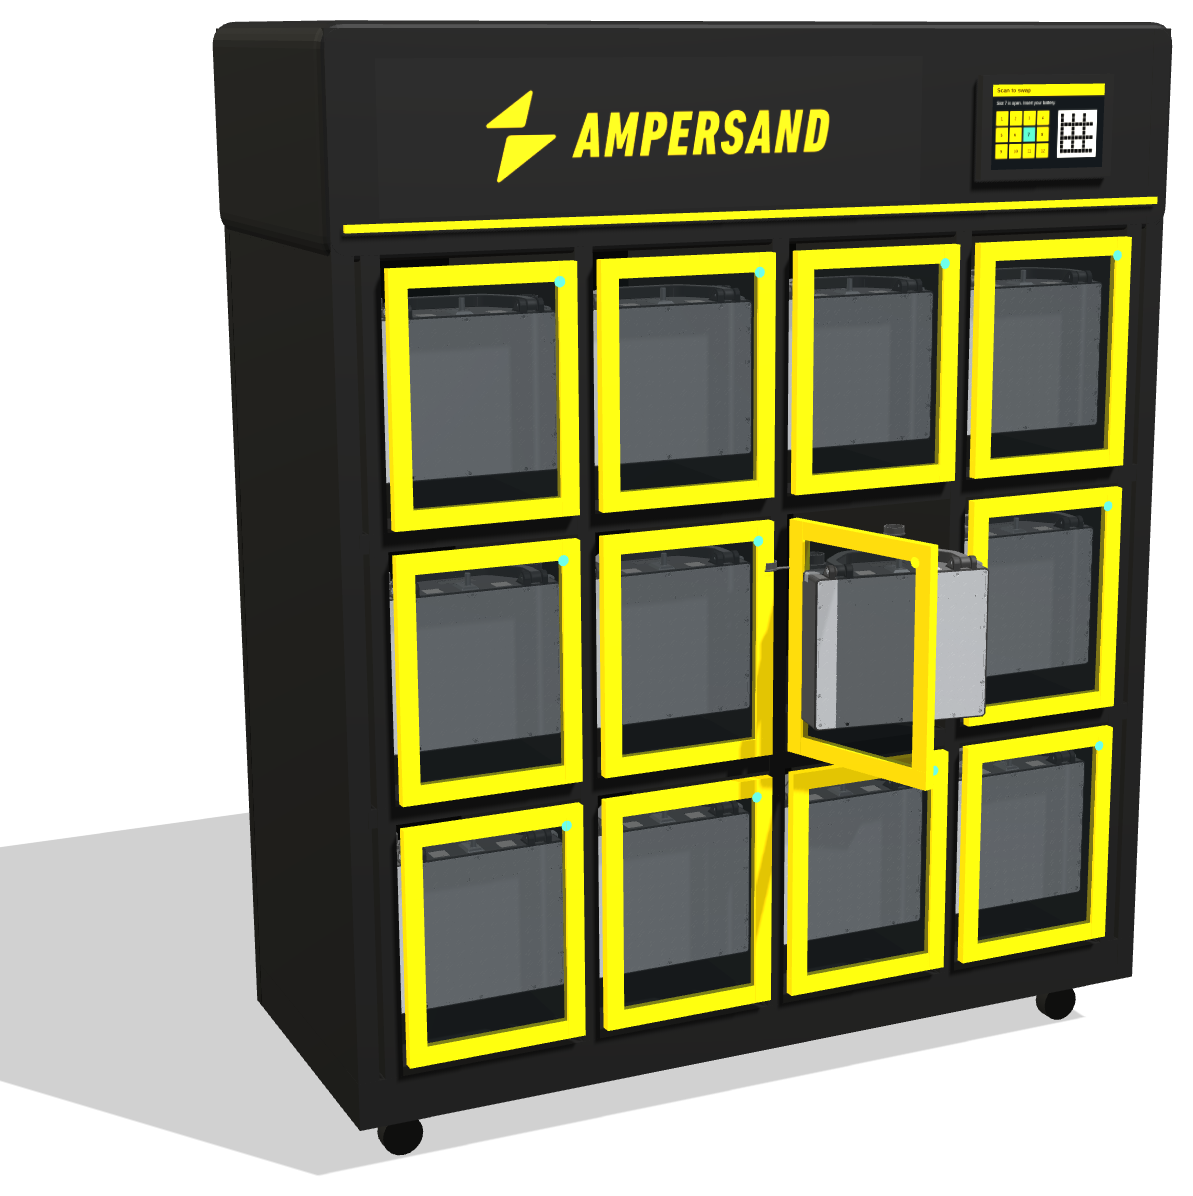
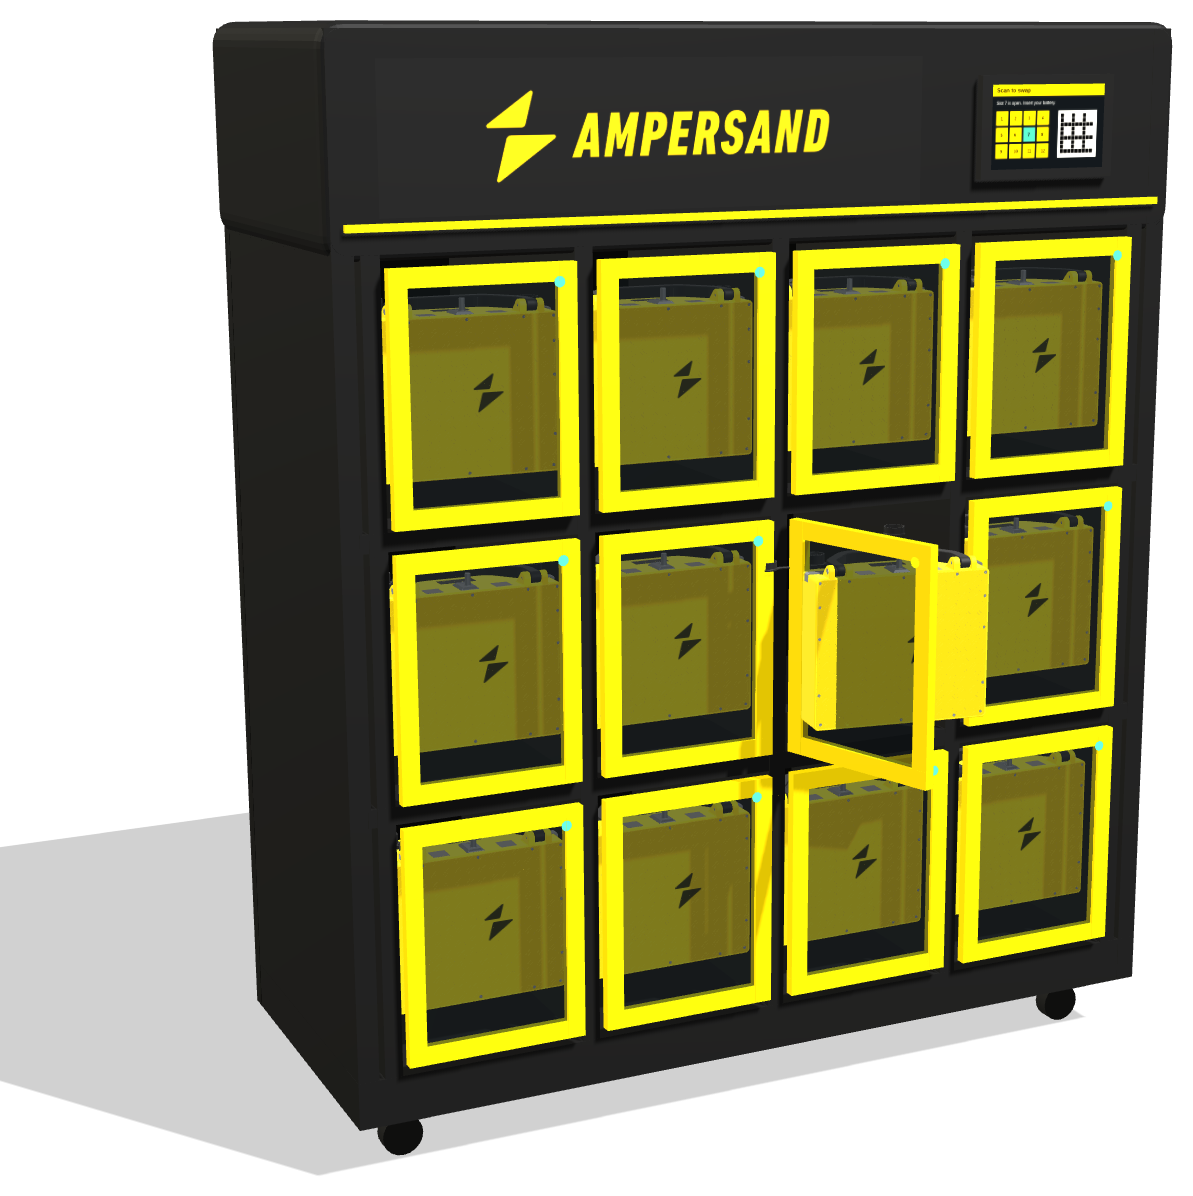
Match the MK2 to the portfolio slide and use the real HM1 render
- MK2 finish from the Hardware Product Portfolio slide: yellow body and
  checker plate, black handle and connector, Ampersand mark on both panels.
  The CAD only has default colours.
- Batteries page: HM1.9 engineering render from Drive in place of the photo crop.
- Hand-built 3D HM1 reshaped from that render (lid, cap, handle, latch,
  connector plate, flap, feet; no logo).
- Chalk blades behind the yellow MK2 for contrast. Weaker reflections on
  painted parts. New transparent renders.

Claude-Session: https://claude.ai/code/session_011MGWp8ueEGbp3fGTaK5ujy

Changed region(s): [[0.3101, 0.4331, 0.9304, 0.8662], [0.4962, 0.2166, 0.9304, 0.4022], [0.3101, 0.2475, 0.4652, 0.4022]]

diff --git a/proof/assets/models3d.js b/proof/assets/models3d.js
@@ -3,12 +3,13 @@
    loaded from assets/models/mk2.gltf.json (glTF with embedded data, so any static host serves it). Made with tools/step_to_web.py and gltfpack. If the file cannot
    load, a simple hand-built pack is used instead.
    Hand-built, to scale from the specifications:
-   HM1 pack 350 × 363 × 287 mm (Hardware product portfolio, Aug 2026)
+   HM1 pack 350 × 363 × 287 mm (Hardware product portfolio, Aug 2026), shaped from the HM1.9 render
    12-slot cabinet 1500 × 600 × 1825 mm, 3 × 4 slots, 10.1" screen (Swap station specifications)
    Needs three.js r128 (global THREE). Usage: ampModel(element, 'mk2' | 'compare' | 'cabinet'). */
 (function () {
   'use strict';
   // Our approved logo files (assets/brand), embedded so the canvas texture never taints.
[2 lines of base64/hex data omitted]
   var C = { surge: 0xFCDC04, black: 0x141414, ink: 0x0A0A0A, grey: 0x5C5C5E, alloy: 0x9E9E9E, green: 0x44BC9D, glass: 0x10161A };
 
@@ -50,13 +51,13 @@
   // ---- Fallback MK2 pack (used only if the model file cannot load): 322 wide, 291 tall, 128 deep (mm → m) ----
   function mk2Pack(logoTex) {
     var g = new THREE.Group(), W = 0.322, H = 0.291, D = 0.128;
-    mesh(roundedBox(W, H, D, 0.018), mat(0x111111, 0.55, 0.1), g, 0, H / 2, 0); // black enclosure, as in the CAD
+    mesh(roundedBox(W, H, D, 0.018), mat(C.surge, 0.45, 0.05), g, 0, H / 2, 0); // yellow enclosure, as on the portfolio slide
     // black end caps with ribs
     var cap = mat(C.black, 0.55, 0.1);
     mesh(roundedBox(W + 0.004, 0.034, D + 0.004, 0.012), cap, g, 0, H - 0.017, 0);
     mesh(roundedBox(W + 0.004, 0.03, D + 0.004, 0.012), cap, g, 0, 0.015, 0);
-    // aluminium checker-plate side panels on both faces
-    var alu = mat(0xC8CBCF, 0.4, 0.6);
+    // yellow checker-plate side panels on both faces
+    var alu = mat(0xF2D104, 0.42, 0.3);
     mesh(new THREE.BoxGeometry(W * 0.96, H * 0.88, 0.003), alu, g, 0, H * 0.47, D / 2 + 0.0015);
     mesh(new THREE.BoxGeometry(W * 0.96, H * 0.88, 0.003), alu, g, 0, H * 0.47, -D / 2 - 0.0015);
     // carry handle on top
@@ -68,15 +69,39 @@
     return g;
   }
   // ---- HM1 pack: 350 wide, 363 tall, 287 deep ----
-  function hm1Pack(logoTex) {
+  function hm1Pack() {
+    // Shape from the HM1.9 render (0004-03 Battery Welded): welded yellow box, lid seam near the top,
+    // black round cap, chrome handle and latch on the side, connector plate, small front flap, feet. No logo.
     var g = new THREE.Group(), W = 0.35, H = 0.363, D = 0.287;
-    mesh(roundedBox(W, H * 0.9, D, 0.014), mat(C.surge, 0.5, 0.05), g, 0, H * 0.45, 0);
-    mesh(roundedBox(W * 0.96, H * 0.1, D * 0.96, 0.02), mat(C.black, 0.6), g, 0, H * 0.95, 0);
-    mesh(new THREE.CylinderGeometry(0.032, 0.032, 0.02, 32), mat(0x2a2a2a, 0.5), g, -0.08, H + 0.005, 0.04);
-    var hb = mat(0xD8D8D8, 0.3, 0.9);
-    mesh(new THREE.BoxGeometry(0.012, 0.012, 0.11), hb, g, W / 2 + 0.012, H * 0.7, 0);
-    var plate = new THREE.Mesh(new THREE.PlaneGeometry(0.22, 0.055), new THREE.MeshStandardMaterial({ map: logoTex, roughness: 0.5, transparent: true }));
-    plate.position.set(0, H * 0.62, D / 2 + 0.003); g.add(plate);
+    var yellow = mat(C.surge, 0.5, 0.05), dark = mat(0x111111, 0.6, 0.05), chrome = mat(0xD8D8D8, 0.25, 0.95);
+    mesh(roundedBox(W, H * 0.93, D, 0.006), yellow, g, 0, H * 0.465, 0);
+    mesh(roundedBox(W + 0.004, H * 0.065, D + 0.004, 0.006), mat(0xF2D104, 0.5, 0.05), g, 0, H * 0.965, 0); // lid
+    var cap = mesh(new THREE.CylinderGeometry(0.04, 0.042, 0.032, 40), dark, g, 0.07, H + 0.016, 0.02);
+    for (var r = 0; r < 12; r++) { // ribs on the cap
+      var rb = mesh(new THREE.BoxGeometry(0.006, 0.026, 0.006), dark, g, 0.07 + Math.cos(r / 12 * 6.283) * 0.042, H + 0.016, 0.02 + Math.sin(r / 12 * 6.283) * 0.042);
+      rb.rotation.y = -r / 12 * 6.283;
+    }
+    // side (+x): chrome U-handle near the top, toggle latch near the bottom, connector plate and port
+    var hx = W / 2 + 0.013;
+    mesh(new THREE.BoxGeometry(0.01, 0.012, 0.12), chrome, g, hx, H * 0.8, 0.02);
+    mesh(new THREE.BoxGeometry(0.026, 0.012, 0.01), chrome, g, W / 2 + 0.007, H * 0.8, -0.04);
+    mesh(new THREE.BoxGeometry(0.026, 0.012, 0.01), chrome, g, W / 2 + 0.007, H * 0.8, 0.08);
+    mesh(new THREE.BoxGeometry(0.004, 0.05, 0.05), mat(0xBFC2C5, 0.35, 0.8), g, W / 2 + 0.002, H * 0.8, D / 2 - 0.04);
+    mesh(new THREE.BoxGeometry(0.014, 0.1, 0.022), chrome, g, W / 2 + 0.007, H * 0.24, D / 2 - 0.05);
+    mesh(new THREE.BoxGeometry(0.01, 0.03, 0.03), chrome, g, W / 2 + 0.005, H * 0.15, D / 2 - 0.05);
+    var port = mesh(new THREE.CylinderGeometry(0.009, 0.009, 0.01, 20), dark, g, W / 2 + 0.004, H * 0.62, D / 2 - 0.045);
+    port.rotation.z = Math.PI / 2;
+    // front (+z): small raised flap
+    mesh(roundedBox(0.075, 0.062, 0.008, 0.004), yellow, g, -W / 2 + 0.07, H * 0.3, D / 2 + 0.004);
+    // screw heads along the lid and edges
+    [[-0.15, 0.93], [0.15, 0.93], [-0.15, 0.6], [0.15, 0.6], [-0.15, 0.2], [0.15, 0.2]].forEach(function (p) {
+      var sc = mesh(new THREE.CylinderGeometry(0.004, 0.004, 0.003, 12), dark, g, p[0], H * p[1], D / 2 + 0.0015); sc.rotation.x = Math.PI / 2;
+    });
+    // small feet at the corners
+    [[-1, -1], [1, -1], [-1, 1], [1, 1]].forEach(function (c) {
+      var ft = mesh(new THREE.CylinderGeometry(0.012, 0.012, 0.014, 16), mat(0xEDEDED, 0.5), g, c[0] * (W / 2 - 0.02), 0.007, c[1] * (D / 2 - 0.02));
+    });
+    g.children.forEach(function (m) { m.position.y += 0.014; }); // stand on the feet
     return g;
   }
   // ---- 12-slot cabinet: 1500 wide, 1825 tall (with castors), 600 deep ----
@@ -157,20 +182,28 @@
   function addScript(src) {
     return new Promise(function (ok, fail) { var s = document.createElement('script'); s.src = src; s.onload = ok; s.onerror = fail; document.head.appendChild(s); });
   }
-  // The CAD stores one colour per part. Give each one a real-world finish.
+  // The CAD stores one colour per part. Give each one its real finish, as on the Hardware Product Portfolio slide.
   function cadMaterial(m) {
     var c = m.color || new THREE.Color(1, 1, 1), k = [c.r, c.g, c.b].map(function (v) { return Math.round(v * 255); }).join(',');
     var f = {
-      '0,0,0': [0x111111, 0.55, 0.1],      // enclosure, black powder coat
+      '0,0,0': [0xF7D304, 0.5, 0.05],      // enclosure, Surge Yellow (portfolio slide; the CAD has a default black)
       '2,2,2': [0x1a1a1a, 0.45, 0.0],      // handle and vent cover, black plastic
-      '233,233,235': [0xC8CBCF, 0.38, 0.85], // side panels, aluminium checker plate
+      '233,233,235': [0xE6C400, 0.5, 0.2],  // side panels, yellow-coated aluminium checker plate (portfolio slide)
       '133,133,133': [0x8C8F92, 0.35, 0.9],  // swap-system rocker and plate, steel
       '90,90,90': [0xA6A9AC, 0.3, 0.9],    // stainless screws
-      '255,255,255': [0x222222, 0.5, 0.05], // power connector and cap: CAD has no colour; dark plastic assumed
+      '255,255,255': [0x151515, 0.5, 0.05], // power connector and cap, black (portfolio slide; no colour in the CAD)
       '229,152,51': [0xB8862F, 0.35, 0.8], // brass inserts
       '212,212,212': [0xD4D4D4, 0.7, 0.0]  // vent membrane
     }[k] || [c.getHex(), 0.5, 0.1];
     return mat(f[0], f[1], f[2]);
+  }
+  function markDecal(onload) {
+    var cv = document.createElement('canvas'); cv.width = 500; cv.height = 603;
+    var tex = new THREE.CanvasTexture(cv); tex.encoding = THREE.sRGBEncoding; tex.anisotropy = 4;
+    var img = new Image();
+    img.onload = function () { var x = cv.getContext('2d'); x.globalAlpha = 0.85; x.drawImage(img, 0, 0, 500, 603); tex.needsUpdate = true; if (onload) onload(); };
+    img.src = MARK;
+    return new THREE.MeshStandardMaterial({ map: tex, transparent: true, roughness: 0.5, polygonOffset: true, polygonOffsetFactor: -2 });
   }
   function loadMK2() {
     if (mk2Promise) return mk2Promise;
@@ -216,9 +249,14 @@
     var target, dist;
     // reflections for the CAD metals only, so the hand-built parts keep their colours
     var env = real && THREE.RoomEnvironment ? new THREE.PMREMGenerator(renderer).fromScene(new THREE.RoomEnvironment(), 0.04).texture : null;
+    var mark = real ? markDecal(rerender) : null;
     var pack = !real ? function () { return mk2Pack(black); } : function () {
       var o = real.clone();
-      if (env) o.traverse(function (m) { if (m.userData.cad) { m.material = m.material.clone(); m.material.envMap = env; m.material.envMapIntensity = 0.9; } });
+      // Ampersand mark on both side panels (panel faces at z = ±64.2 mm; mark 52 × 63 mm, right of centre)
+      var f = new THREE.Mesh(new THREE.PlaneGeometry(0.052, 0.063), mark); f.position.set(0.035, 0.14, 0.0652); o.add(f);
+      var bk = f.clone(); bk.rotation.y = Math.PI; bk.position.set(-0.035, 0.14, -0.0652); o.add(bk);
+      // full reflections on metal parts, weak reflections on painted and plastic parts
+      if (env) o.traverse(function (m) { if (m.userData.cad) { m.material = m.material.clone(); m.material.envMap = env; m.material.envMapIntensity = m.material.metalness > 0.5 ? 0.9 : 0.3; } });
       return o;
     };
     if (type === 'cabinet') {
@@ -228,7 +266,7 @@
       // the two MK2 packs side by side (2 × 128 mm wide, 322 mm long) take about the floor space of one HM1 (350 × 287 mm)
       var a = pack(); a.rotation.y = Math.PI / 2; a.position.set(-0.3, 0, 0); root.add(a);
       var b = pack(); b.rotation.y = Math.PI / 2; b.position.set(-0.155, 0, 0); root.add(b);
-      var hm = hm1Pack(black); hm.position.x = 0.2; root.add(hm);
+      var hm = hm1Pack(); hm.rotation.y = -Math.PI / 2; hm.position.x = 0.2; root.add(hm); // handle side and front flap face the camera
       target = new THREE.Vector3(-0.04, 0.16, 0); dist = 1.6;
       key.shadow.camera.left = -1; key.shadow.camera.right = 1; key.shadow.camera.top = 1; key.shadow.camera.bottom = -1;
     } else {

diff --git a/index.html b/index.html
@@ -210,7 +210,7 @@ footer{margin-top:40px;font-size:14px;color:var(--muted)}
       <li><span class="chip warn">Confirm</span><div><b>Numbers not in the deck.</b> 70 stations (AmperOps), 80% brand preference and HM1 / MK2 pack specs (portfolio and specification). Old website claims (400M km, 14k t CO₂e) are no longer used.</div></li>
       <li><span class="chip info">Update</span><div><b>Leadership.</b> The live website lists Josh Whale as CEO. The deck lists Michael Barton as CEO and Josh Whale as Founder and Chief Customer Officer. Update the company page on the new site.</div></li>
       <li><span class="chip info">Fix</span><div><b>Live site error.</b> Correct "400,000+ battery swaps per week" on the current Who We Are page.</div></li>
-      <li><span class="chip info">Models</span><div><b>3D models.</b> The MK2 now comes from the CAD (MK2 Battery pack v37), outside parts only: 322 × 291 × 128 mm, black enclosure and aluminium checker-plate panels. The power connector has no colour in the CAD, so it is shown in dark plastic (confirm). The HM1 and the cabinet are still hand-built from the specifications and are approximate; send their STEP files to replace them.</div></li>
+      <li><span class="chip info">Models</span><div><b>3D models.</b> The MK2 comes from the CAD (MK2 Battery pack v37), outside parts only: 322 × 291 × 128 mm. Its colours and the Ampersand mark follow the Hardware Product Portfolio slide, because the CAD only has default colours. The Batteries page shows the HM1.9 engineering render. The 3D HM1 is still hand-built from that render; the exterior STEP (0004-03-EXT, 14.5 MB) is too large for the Drive connector, so attach it to the chat to replace it. The cabinet model does not match the slide yet (the slide shows a yellow cabinet with 3 × 4 numbered doors).</div></li>
       <li><span class="chip info">Photos</span><div><b>Rider quotes.</b> The photos next to the three quotes show other riders. Match each photo to the correct name.</div></li>
       <li><span class="chip info">Build</span><div><b>Live feed.</b> The "Network now" bar is simulated from 24,000 swaps a day. The real site needs a cached public feed from AmperOps. AmperOps reports timed out during this work; ask the team to check the server.</div></li>
       <li><span class="chip info">Brand</span><div><b>Logo size on phones.</b> The header logo is 200 px on phones; the brand book minimum is 250 px. Directions A and C still use the unconfirmed AMP 01 / AMP 02 names.</div></li>

diff --git a/proof/assets/proof.css b/proof/assets/proof.css
@@ -69,6 +69,7 @@ h3.d{font-size:clamp(30px,2.8vw,40px);line-height:.95}
 .pblade{position:absolute;top:0;bottom:0;right:0;left:var(--bl,50%);overflow:hidden;transform:skewX(-15deg);transform-origin:0 100%;background:var(--coal)}
 .pblade img{position:absolute;left:0;bottom:0;width:150%;max-width:none;height:100%;object-fit:cover;object-position:var(--fp,30% 50%);transform:skewX(15deg);transform-origin:0 100%}
 .yblade{position:absolute;top:0;bottom:0;right:0;left:var(--bl,42%);background:var(--surge);transform:skewX(-15deg);transform-origin:0 100%}
+.yblade.c{background:var(--chalk)} /* chalk blade for yellow products */
 .slash{flex:none;width:8px;height:clamp(96px,11.8vw,170px);background:currentColor;transform:skewX(-15deg)}
 @media (max-width:860px){
   .pblade{position:relative;left:auto;height:clamp(240px,62vw,360px);margin-left:clamp(40px,12vw,72px)}
@@ -183,6 +184,7 @@ header.site{background:var(--ink);border-bottom:1px solid #262626;z-index:30}
   .prod .visual{isolation:isolate;padding:28px 0 40px}
   .prod .visual figcaption{padding-left:56px}
   .prod .visual::before{content:"";position:absolute;z-index:-1;top:0;bottom:0;left:clamp(8px,4vw,32px);right:-200px;background:var(--surge);transform:skewX(-15deg);transform-origin:0 100%}
+  .prod.c .visual::before{background:var(--chalk)}
 }
 
 /* ---- Weight to scale ---- */

diff --git a/proof/batteries.html b/proof/batteries.html
@@ -47,12 +47,12 @@
           <div><div class="d">IP66</div><div>enclosure, IP67 internals</div></div>
         </div>
       </div>
-      <img src="../assets/img/battery-hm1-crop.jpg" alt="Yellow HM1 battery pack" style="width:100%;max-width:560px;justify-self:center;aspect-ratio:1/1;object-fit:cover;background:var(--white)">
+      <figure style="margin:0;justify-self:center;width:100%;max-width:440px"><img src="assets/renders/hm1.png" alt="Render of the yellow HM1 battery pack" width="966" height="1200" style="width:100%;height:auto"><figcaption class="src" style="margin-top:8px">HM1.9 pack, engineering render.</figcaption></figure>
     </div>
   </section>
 
-  <section class="sec s-ink prod" id="mk2">
-    <div class="yblade" style="--bl:42%" aria-hidden="true"></div>
+  <section class="sec s-ink prod c" id="mk2">
+    <div class="yblade c" style="--bl:42%" aria-hidden="true"></div>
     <div class="wrap">
       <div class="copy stack">
         <div class="flag">MK2 · new generation</div>

diff --git a/proof/index.html b/proof/index.html
@@ -57,8 +57,8 @@
     </div>
   </section>
 
-  <section class="sec s-ink prod">
-    <div class="yblade" style="--bl:42%" aria-hidden="true"></div>
+  <section class="sec s-ink prod c">
+    <div class="yblade c" style="--bl:42%" aria-hidden="true"></div>
     <div class="wrap">
       <div class="copy stack">
         <div class="flag">MK2 battery</div>

diff --git a/README.md b/README.md
@@ -36,4 +36,5 @@ Open `index.html` in a browser. The pages are static HTML. They need no build st
   3. `npx gltfpack -i mk2-ext.glb -o mk2.gltf -cc`
   4. `python3 tools/gltf_embed.py mk2.gltf proof/assets/models/mk2.gltf.json` (one JSON file, because some hosts do not serve .glb files)
 - Do not commit STEP files. They contain the full internal design.
-- The HM1 and the 12-slot cabinet are still hand-built in `proof/assets/models3d.js`.
+- The MK2 colours come from the Hardware Product Portfolio slide (yellow body and checker plate, black handle and connector), not from the CAD, which has default colours.
+- `proof/assets/renders/hm1.png` is the HM1.9 engineering render from Drive. The 3D HM1 and the 12-slot cabinet are still hand-built in `proof/assets/models3d.js`.
